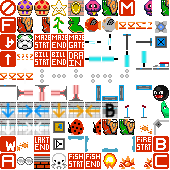
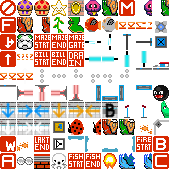
Replace Spikey.

Changed region(s): [[0.6765, 0.8824, 0.7941, 1.0], [0.8235, 0.8824, 0.9118, 1.0]]

diff --git a/README.md b/README.md
@@ -45,7 +45,7 @@ Pipes
 https://opengameart.org/content/16-bit-pipes  
 License: CC-BY-SA 4.0
 
-Koopa, Red Koopa, vines and bonus platform  
+Koopa, Red Koopa, Spikey, vines and bonus platform  
 Modified from Monsterboy in Wonder World mockup assets by surt  
 https://opengameart.org/content/monsterboy-in-wonder-world-mockup-assets  
 License: CC-BY-SA 3.0
